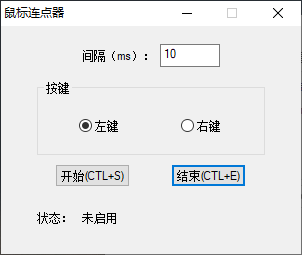
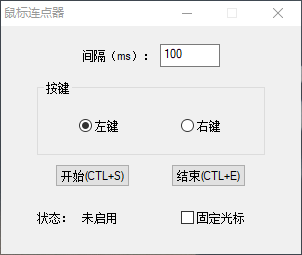
fixed

diff --git a/main.cpp b/main.cpp
@@ -16,7 +16,7 @@ HWND leftButton;
 HWND rightButton;
 
 HWND intervalEdit;
-int interval = 10;
+int interval = 100;
 
 HWND stateText;
 const TCHAR* soff = TEXT("未启用");
@@ -44,7 +44,7 @@ BOOL CALLBACK DlgMain(HWND hwndDlg, UINT uMsg, WPARAM wParam, LPARAM lParam)
     {
     case WM_INITDIALOG:
     {
-        //默认间隔值
+        //默认间隔
         SetDlgItemInt(hwndDlg, IDE_INTERVAL, interval, false);
 
         //默认状态
@@ -140,6 +140,9 @@ void timerStop(HWND hwndDlg)
 void CALLBACK TimerProc(HWND hWnd, UINT uMsg, UINT nTimerid, DWORD dwTime)
 {
     //鼠标连击
+    if(IsDlgButtonChecked(hWnd, IDC_FIXED))
+        SetCursorPos(pt.x, pt.y);
+    //？
     mouse_event(MOUSEEVENTF_DOWN, pt.x, pt.y, 0, 0);
     mouse_event(MOUSEEVENTF_UP, pt.x, pt.y, 0, 0);
 }

diff --git a/resource.h b/resource.h
@@ -7,6 +7,7 @@
 #define IDB_BEGIN                               40001
 #define IDR_LEFT                                40002
 #define IDB_END                                 40003
+#define IDC_FIXED                               40004
 #define IDR_RIGHT                               40005
 #define IDE_INTERVAL                            40007
 #define IDI_APP                                 40008
